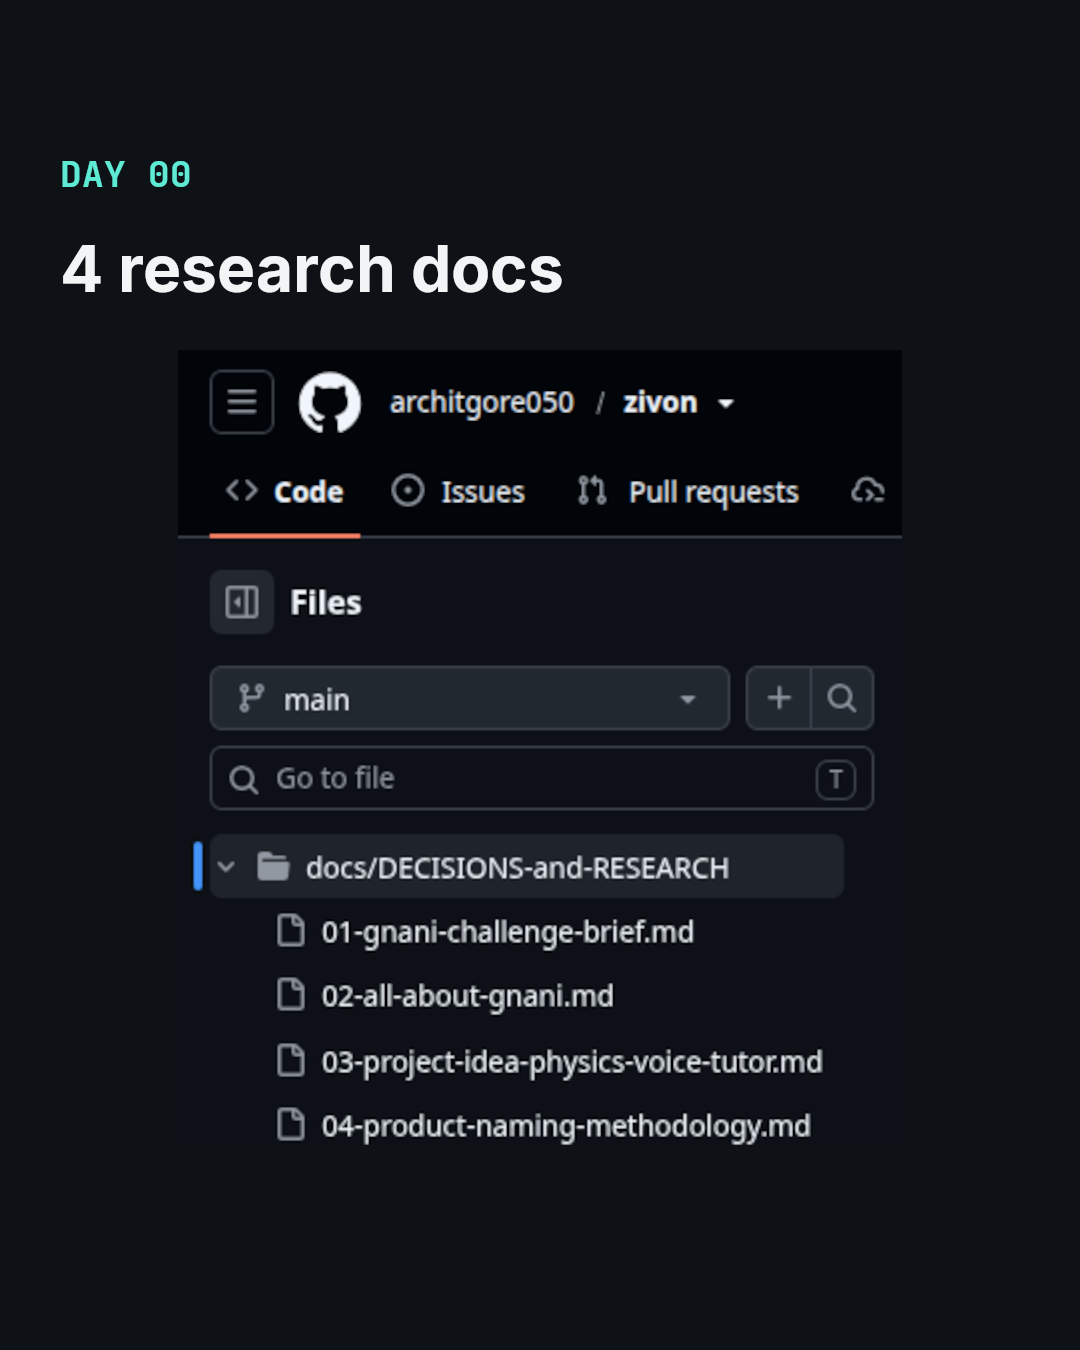
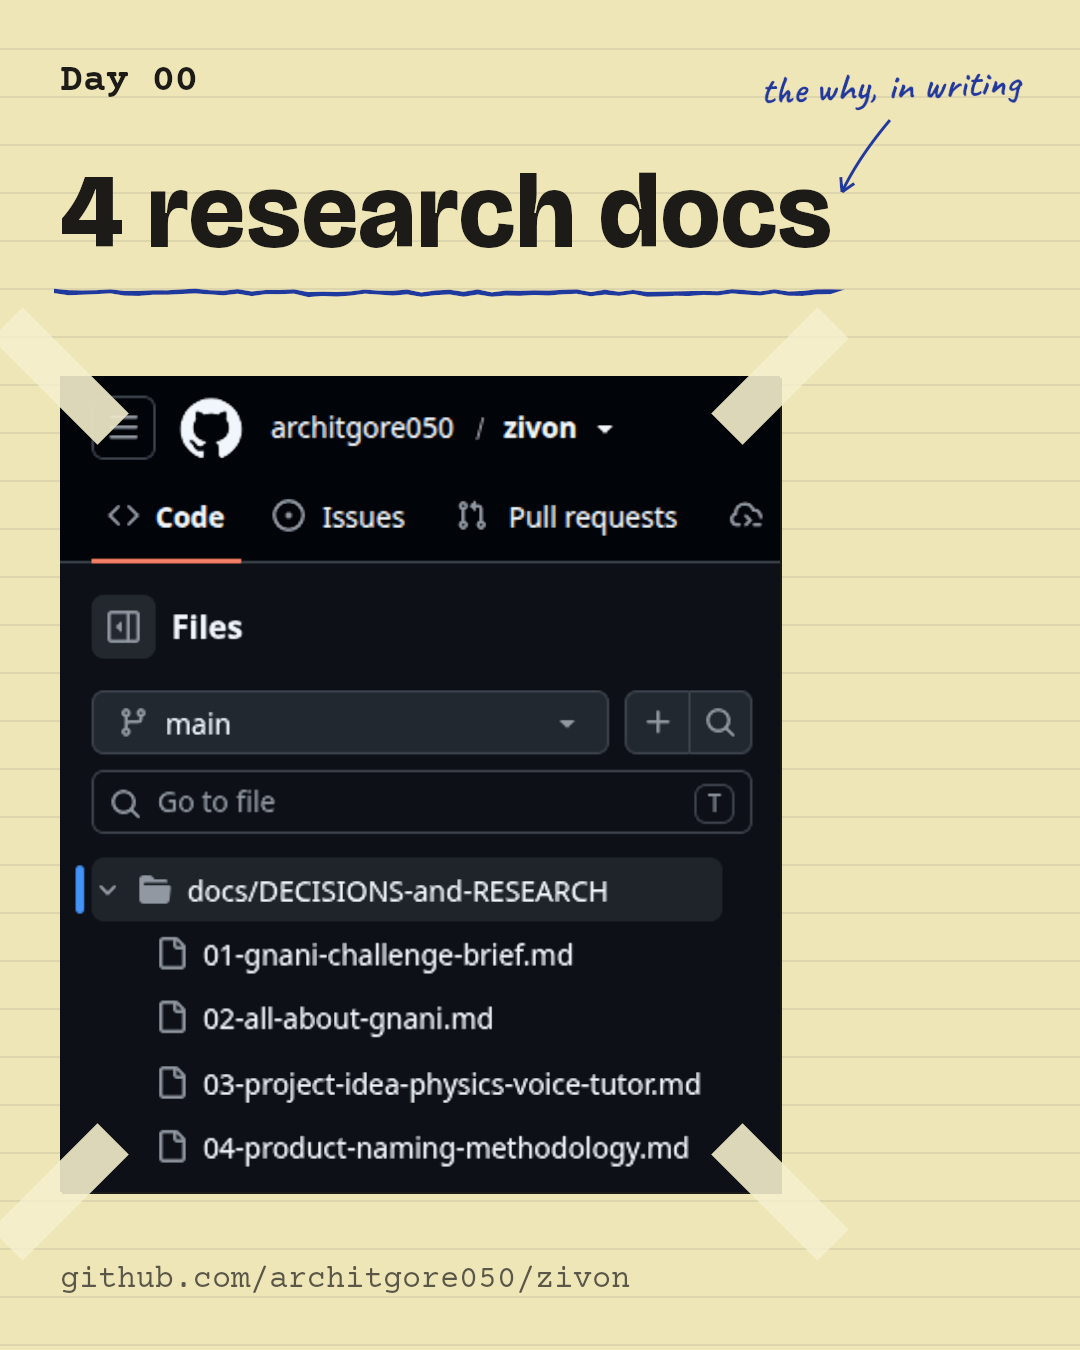
final version of day 0 post ready

diff --git a/posts/2026-10-29-day-0.md b/posts/2026-10-29-day-0.md
@@ -8,9 +8,9 @@ drafted as if published on Day 0.
 
 - 4 decision/research docs written: challenge brief, Gnani research, product idea, naming methodology
   (`docs/DECISIONS-and-RESEARCH/01`–`04`).
-- Pivot decided on Day 0: Python coding tutor → voice-first Physics tutor (Class 9–12). Reason: interactive
-  simulations/animations fit the vision; bigger mass impact ("high-quality education to poor homes"); a code
-  interpreter for cybersecurity-style exercises was not buildable in 12 days.
+- Pivot decided on Day 0: Python coding tutor → voice-first Physics tutor (Class 9–12). Main reason: school
+  Physics is required by far more kids. Much bigger impact. Second: interactive simulations/animations work
+  best for Physics. Tradeoff accepted: reach over niche.
 - Kanban live and public on Trello: 31 cards across 5 phase swim lanes.
   Board: https://trello.com/b/6ae259654bfcaa47ee720df7/zivon (clean URL, no invite token; verify logged out).
 - Naming: 8 candidates shortlisted (Zivon, Nexora, Zylo, Kairo, Nyra, Vireo, Elyra, Quen); Zivon leads; final
@@ -55,8 +55,8 @@ competition, organisers follow it).
 ### Alternative: Day-0 thread (6 tweets + 1 reply; hook tweet carries the kanban screenshot)
 
 1. Day 0 of 12 building Zivon for Gnani AI's Great Indian AI Internship Challenge: a voice-first Physics tutor on Gnani's Prisma + Evon + Timbre. Today's output: 4 research docs, 31 kanban cards, 1 idea killed, 1 idea born, 0 lines of product code.
-2. The idea started as a Python coding tutor. Day 0 research turned it into a Physics tutor for Class 9-12. What I gave up: a code interpreter for cyber-safety exercises was never fitting in 12 days.
-3. Why Physics won: simulations and animations teach concepts text walls can't, and good Physics tutors are scarce and expensive. The goal is free, clear Physics teaching for homes that can't buy it.
+2. The idea started as a Python coding tutor. Day 0 research turned it into a Physics tutor for Class 9-12. The tradeoff: reach over niche. A school subject serves far more kids.
+3. Why Physics won: it's a school subject required by far more kids. That's where the impact is. And it's where simulations + visual animations make learning intuitive. The goal: free Physics teaching that sparks curiosity, for homes that can't buy it.
 4. 8 candidate names: Zivon, Nexora, Zylo, Kairo, Nyra, Vireo, Elyra, Quen. Zivon leads. The final call waits on domain price, not my taste. Domain + hosting are deliberately delayed to Day 3, when there's something to deploy.
 5. Not done, honestly: kid testers. Planned 2-3, found 1: a 7th grader who said yes during exam week. Surprised even one did. Topics aren't fixed because of it.
 6. Tomorrow (Day 1): Gnani Evon v3.3 faces 10 Physics explanations + 5 Hinglish prompts. Score it, write the verdict down, swap the brain if it fails. I'll post the score.
@@ -79,7 +79,7 @@ Deadline: 10 November 2026, 11:59 PM IST.
 
 What shipped today: 4 decision docs, a public kanban with 31 cards across 5 phases, and a pivot.
 
-The pivot: the idea started as a Python coding tutor. During research it became a voice-first Physics tutor for Class 9-12: spoken Hinglish doubts answered on interactive pages. What I gave up: a code interpreter for cybersecurity-style exercises was never going to fit in 12 days. What I gained: simulations that genuinely teach Physics, aimed at homes that can't afford good tutors.
+The pivot: the idea started as a Python coding tutor. During research it became a voice-first Physics tutor for Class 9-12: spoken Hinglish doubts answered on interactive pages. Why I pivoted: school Physics is required by far more kids, and that is where the impact is. And Physics is where interactive simulations + visual animations make learning most intuitive. The tradeoff: reach over niche. The aim is unchanged: spark curiosity, make learning intuitive.
 
 The honest part: I planned 2-3 kid testers. I found one. A 7th grader, during exam week. I'm surprised even one said yes.
 
@@ -133,8 +133,14 @@ Fallback:    screenshot of TIMELINE.md's Day 0 section with the not-done items v
 
 ASSET A2 [GIMP card] — the decision card (optional second image / thread tweet 2)
 Proves:      the pivot decision and its tradeoff
-Card type:   Decision card (Decision / Tradeoff / Why), theme.md palette: bg #0E1116, text #F3F4F6, accent #5EEAD4 on "Physics tutor", DAY 00 top-left in JetBrains Mono
-Text:        Decision: Python tutor → Physics tutor / Tradeoff: no code interpreter, and 12 days of Python work abandoned / Why: simulations teach Physics better, and reach more kids who need it
+Card type:   Decision card per design-doctrine.md (Field Notes): paper-light card with 1px ink border, rotated 1.2 deg on a paper
+  background; "Day 00" top-left in Courier Prime; Decision / Tradeoff / Why as a two-column notebook entry (graphite mono tags,
+  Bricolage Grotesque body); headline correction in pen-blue: hand-drawn strike through "Python" with handwritten Caveat
+  "physics" squeezed in above it; handwritten pen-blue tagline with a small outlined heart, set between the Tradeoff and Why
+  entries: `dil khol ke padhega india`
+Text:        Decision: ~~Python~~ physics tutor / Tradeoff: A school subject reaches far more kids. We chose reach over niche. /
+             Why: Learning starts from curiosity, not from memorizing text walls. Simulations + visual animations make Physics
+             intuitive to kids.
 Frame:       1080x1350 (4:5)
 Filename:    day00_A2_decision-card.png
 
@@ -145,14 +151,26 @@ Frame:       1:1 crop on the docs folder, dark GitHub theme
 Filename:    day00_A3_repo-tree.png
 
 GIMP MCP steps for A2 (read tools.md first; GIMP 3.2 with MCP plugin running, check_server first):
-**DONE 31 Oct** — all three assets edited via GIMP MCP. Outputs in `posts/assets/day-0/`:
-- `day00_A1_kanban-board_1080x1350.png` — Trello crop (5 phase lists = 31 cards), DAY 00 chip + challenge
-  label top, "31 cards across 5 phases" caption bottom. Primary image: X hook post + LinkedIn.
-- `day00_A2_decision-card_1080x1350.png` — Decision/Tradeoff/Why card, accent on "Physics tutor".
-  Supporting: X thread tweet 2 or LinkedIn second slot.
-- `day00_A3_repo-tree_1080x1350.png` — GitHub tree at 2x, "4 research docs" headline. Supporting: LinkedIn.
-Re-editable XCFs kept out of the repo at `/tmp/opencode/day00_A{1,2,3}*.xcf`. GIMP lessons appended to
-tools.md.
+**REBUILT 31 Oct for the Field Notes doctrine** — all three assets rebuilt from the raw captures via GIMP MCP in the design-doctrine
+look (paper `#EFE6B8` + ink, Bricolage Grotesque / Courier Prime, one pen-blue annotation each, pencil-red reserved for the gap
+stamp, taped screenshot corners with a 2 px hard-offset shadow, `Day 00` counter top-left). Outputs in `posts/assets/day-0/`:
+- `day00_A1_kanban-board_1080x1350.png` — Trello board crop (5 phase lists = 31 cards) taped onto paper; "31 cards" hook with a
+  pen-blue underline + Caveat note "counted them" in the right margin (arrow from mid-note to mid-height right of "cards");
+  "across 5 phases" as a typed note; source line `trello.com/...` in graphite mono.
+  Member avatars/icons in the board header redacted with a solid fill before compositing. Primary image: X hook post + LinkedIn.
+- `day00_A2_decision-card_1080x1350.png` — Decision card: paper-light card, 1px ink border, rotated 1.2 deg; headline
+  correction: "Python tutor" in Bricolage Display with a pen-blue hand-drawn strike through "Python" and handwritten Caveat
+  "physics" above it; Tradeoff "A school subject reaches far more kids. We chose reach over niche."; Why "Learning starts from
+  curiosity, not from memorizing text walls. Simulations + visual animations make Physics intuitive to kids."; handwritten
+  pen-blue tagline `dil khol ke padhega india` with a small outlined heart, between Tradeoff and Why. Supporting: X thread
+  tweet 2 or LinkedIn second slot.
+- `day00_A3_repo-tree_1080x1350.png` — GitHub docs tree (upscaled 2x) taped onto paper; "4 research docs" hook with pen-blue
+  underline + Caveat note "the why, in writing" in the top-right corner (arrow from mid-note down to "docs"); source line
+  `github.com/architgore050/zivon`. Supporting: LinkedIn.
+Note: pen-blue annotations sit on the paper (under the headline), not on the dark screenshots — pen-blue on dark UI fails the
+doctrine's contrast table; the underline+note pair is the example HTML's own annotation pattern. Doctrine fonts installed to
+`~/.local/share/fonts/fieldnotes/` (Bricolage Grotesque text + Display cuts, Courier Prime, Caveat 700). Re-editable XCFs kept out
+of the repo at `/tmp/opencode/day00_A{1,2,3}_fieldnotes_v2.xcf`. GIMP lessons appended to tools.md.
 
 ---
 

diff --git a/skills/content-creation/tools.md b/skills/content-creation/tools.md
@@ -38,8 +38,7 @@ store: it records what we have learned about using these tools so every later ed
 ## Lessons learned — GIMP
 - 2026-10-31 (Day 0 post kit): `new_canvas(name=...)` does not stick — GIMP reports the image as
   `[Untitled]` via `get_name()`. Identify images in `call_api` by dimensions + `get_file()` (None for
-  unsaved), not by name.
-- 2026-10-31: in 3.2 PyGObject there is no `Gimp.Image.select_all` / `image.select_all` / `Image.set_name` /
+  unsaved), not by name.- 2026-10-31: in 3.2 PyGObject there is no `Gimp.Image.select_all` / `image.select_all` / `Image.set_name` /
   `Layer.crop`. Use `image.select_rectangle(Gimp.ChannelOps.REPLACE, 0, 0, w, h)`; skip image renames; to trim
   a layer, paint the unwanted strip with the background color via `fill_rectangle(layer_name=...)`.
 - 2026-10-31: cross-image composite recipe that worked: select_rectangle on source → `Gimp.edit_copy([layer])` →
@@ -54,3 +53,63 @@ store: it records what we have learned about using these tools so every later ed
 - 2026-10-31: verify crop boundaries with `get_state_snapshot(region=...)` before cropping; QC with a
   `max_size=300` snapshot for phone readability; `save_xcf` to /tmp/opencode keeps re-editable layers out of
   the repo.
+- 2026-10-31 (Field Notes rebuild): fonts installed mid-session are invisible to GIMP's cached font list until
+  `Gimp.fonts_refresh()` (call_api) is run; then `Gimp.fonts_get_list('Caveat')` returns `Gimp.Font` objects and
+  `TextLayer.set_font(font_obj)` works (it needs a `Gimp.Font`, not a string). MCP `add_text` validates against
+  the cached list and silently substitutes unknown fonts (a `Sans-serif` fallback shows up in `edit_text`'s
+  returned `font`). Always verify the rendered face with a snapshot.
+- 2026-10-31: doctrine fonts live in `~/.local/share/fonts/fieldnotes/`: Bricolage Grotesque Medium/Bold/ExtraBold
+  (opsz 36 cut) + "Bricolage Grotesque Display" Bold/ExtraBold (opsz 72 cut, for 96-120 px headlines), Courier
+  Prime Regular/Bold, Caveat Bold — static instances made from google/fonts variable TTFs with
+  `fontTools.varLib.instancer` plus a name-table rewrite (family/style per cut). Keep exactly one family+style
+  set active; duplicate installs make fontconfig matching nondeterministic.
+- 2026-10-31: `image.select_polygon(ops, pts)` takes a flat float list `[x1,y1,x2,y2,...]`, not Vector2 objects.
+  Hand-drawn marks (uneven underline ribbons, curved arrows with barbs, 45-degree tape strips) all work as
+  polygon selections + `edit_fill` on a dedicated layer.
+- 2026-10-31: `Image.crop()` returned True but left dimensions unchanged in this build — crop via
+  select_rectangle → `Gimp.edit_copy` → new canvas → `edit_paste` → `floating_sel_to_layer` → `set_offsets`.
+  `Image.scale(w, h)` works in place; set `Gimp.context_set_interpolation(Gimp.InterpolationType.NOHALO)` first.
+- 2026-10-31: rotate a layer around an image-space pivot with `lay.transform_matrix(c,-s, cx*(1-c)+cy*s, s,c,
+  -cx*s+cy*(1-c), 0,0,1)` (radians). `layer.get_offsets()` returns a named tuple — use `.offset_x/.offset_y`.
+  `transform_rotate_simple` takes `(RotationType, auto_center, center_x, center_y)`, not an angle.
+- 2026-10-31: `im.delete()` silently no-ops on images held by the plugin; the MCP `close_image` tool closes them
+  reliably. `sample_color` gives the exact fill color for solid redaction (Trello header `#00204e`).
+- 2026-10-31: pen-blue annotations must sit on paper, not on dark screenshots (contrast fails the doctrine
+  table); the underline + Caveat-note pair from `design-doctrine-example.html` is the reusable pattern. One
+  rotated element per image (card 1.2 deg or note -2 deg, not both).
+- 2026-10-31: `layer.delete()` also silently no-ops when the persistent plugin console holds a reference to the
+  layer (same failure mode as `im.delete()`). To retire a layer, `set_visible(False)` instead — hidden layers are
+  excluded from flattened exports and only clutter the /tmp XCF. When replacing a text layer, MCP `add_text`
+  names the new one `"text #1"` because the old one still exists; grab the new layer by the exact name
+  `add_text` returns, never by the bare name.
+- 2026-10-31 (founder-approved Field Notes corrections): annotation arrows point at the **word**, not at the
+  underline. Natural layout: Caveat note in the margin beside/above the headline (if it crowds the title, move
+  it to the page corner, aligned with the Day-counter line); the arrow **starts at the middle of the note text**
+  (or ~1/3 from the near end), not at the note's edge. Tip lands at mid-right of the word (near-horizontal
+  arrows) or top-right of the word (descending arrows) — never bottom-right. Curve stays clear of the underline.
+  Long swoops that start under a note and cross near the underline read as weird squiggles; don't do them.
+  Caveat notes render at 40 px. Ruled lines: 2 px at 18% opacity — 1 px at 15% is invisible at 1080 px width.
+- 2026-10-31: a handwritten note must add value to the viewer (explain, invite, or reframe) — "the receipts" got
+  cut for adding nothing; "the why, in writing" replaced it on the repo-tree asset. If there is nothing useful
+  to say, drop the note entirely rather than decorating.
+- 2026-10-31 (founder copy review, applies to all card/note assets): card text is product reasoning, not
+  decoration — settle the logic before designing anything. On the decision card: Tradeoff = why the bigger
+  audience was chosen ("reach over niche"), Why = the reasoning stated explicitly, never as a slogan. The
+  stamp slot became a handwritten closing tagline in pen-blue Caveat ("dil khol ke padhega india") — plain
+  statement, no "not yet:" prefix; Hindi/Hinglish taglines fit the brand voice. Zivon never positions itself
+  as exam-focused, even where exam relevance explains demand.
+- 2026-10-31: arrowhead barbs must open **backwards** from the tip: reverse vector = -(tip - control_point),
+  rotate ±30°, length ~15 px. A sign slip on the reverse vector puts the barbs past the tip and the arrow reads
+  as a pitchfork. Verify arrowheads with a zoomed `get_state_snapshot(region=...)`, not just the full frame.
+- 2026-10-31: layer stacking fixes — GIMP 3.2 pyGObject has no `Layer.set_below`/`set_above`, no
+  `Image.reorder_layer`, and no `gimp_item_set_below` PDB proc. Use the MCP `reorder_layer` tool
+  (`new_position` 0 = topmost). Ruled-paper lines belong **below** taped/tilted card layers so the card reads as
+  clean paper on a ruled page.
+- 2026-10-31: a text-glyph arrow ("→") inside a headline dies when the headline wraps — it ends pointing into
+  empty margin. For a pivot headline the strongest Field Notes treatment is a **text correction**: keep the
+  original line in the title font, hand-draw a pen-blue strike through the old word (extend slightly past its
+  ends), and squeeze the handwritten replacement (Caveat, lowercase) centered above it. Skip the insertion
+  caret: it floats awkwardly between the line and whatever sits below. Rebuilding a flattened composite
+  (card): hide the old flattened layer (stays as XCF backup), build new bg/shadow/text/marks layers unrotated,
+  then rotate every new layer by the same angle around the same pivot with `transform_matrix`; nudge rotated
+  content afterwards with `set_offsets`.

diff --git a/docs/frontend/design-doctrine.md b/docs/frontend/design-doctrine.md
@@ -1,6 +1,9 @@
 # Design system: Field Notes
 
 Anchor: Lo-fi paper (Ilm-Alan "Lo-Fi": paper-yellow, not cream) with Organic honesty. Status: v0.1, proposal.
+Reference implementation: `design-doctrine-example.html` (same folder) — a working page that applies every token
+and rule below. Open it before generating any new page or post visual; match its patterns rather than re-deriving
+the look.
 
 ## 1. Intent
 - Style: handwritten-lab-notebook, deliberately unproduced. Tone: candid, a little wry. Differentiator: it looks
@@ -20,6 +23,7 @@ Anchor: Lo-fi paper (Ilm-Alan "Lo-Fi": paper-yellow, not cream) with Organic hon
 | Token | Hex | Contrast on paper | Job | Frequency cap |
 |---|---|---|---|---|
 | paper | `#EFE6B8` | n/a | background (about 70%) | all pages |
+| paper-light | `#F6F0CF` | n/a | card / taped surface background (ink on it: 15.0:1) | cards only |
 | ink | `#1C1B18` | 13.7:1 | text, outlines | always |
 | graphite | `#5A5748` | 5.8:1 | labels, sources | small text only |
 | pen-blue | `#1F3A9E` | 7.7:1 | annotation: ONE underline/circle per post | once per post/image |
@@ -40,27 +44,9 @@ Anchor: Lo-fi paper (Ilm-Alan "Lo-Fi": paper-yellow, not cream) with Organic hon
 - Notes and data: **Courier Prime** (400, 700), used as typed-note text for numbers, timestamps, and stamps.
   Fallback: Courier New, monospace.
 - Why: Bricolage is a characterful grotesque (distinct from Inter); Courier Prime reads like typed lab notes.
-  Handwriting is excluded from all content because it cuts reading speed; it is allowed only for annotations (boundary below). [MODERATE]
+  Handwriting fonts are excluded because they cut reading speed. [MODERATE]
 - Scale on 1080 px: hook 120/1.05 800; headline 76/1.1 700; body 46/1.35 500; notes 36/1.3 mono; minimum 32.
 - Slight rotation (max 1.5 degrees) allowed on one card element per image, never on text paragraphs.
-
-### Handwriting boundary (exact)
-Font: **Caveat** 700, 28-34 px on a 1080 px canvas (never below 26 px), color pen-blue `#1F3A9E` (7.7:1 on paper).
-- **Handwritten = annotation only.** An annotation is a note of 6 words or fewer, attached to a drawn mark (arrow,
-  underline, or circle) that points AT typed content. It comments on the content; it is never the content.
-- **Allowed uses:** a pointer note on the one number or phrase to remember ("the one to remember"); a note on a
-  gap or decision that explains intent ("left on purpose"); a note beside a proof screenshot.
-- **Never handwritten:** headlines, body text, list rows, status tags and stamps (`done`, `not yet` stay in Courier
-  Prime), numbers, the day counter, buttons, captions, the ask/question, and anything inside a sentence.
-- **Limits:** at most 2 annotations per image or page; the same drawn arrow style each time; slight rotation
-  (-3 to -1 degrees); no mixing handwriting and typed text within one line.
-- The one pen-blue annotation rule from section 4 now counts per annotation pair: underline plus its note is ONE
-  annotation, so a post can carry two such pairs at most.
-- **Annotations are overlays.** They are absolutely positioned on top of the design and occupy no space: they never
-  push, resize, or re-space any typed element. Delete every annotation and the layout must be pixel-identical.
-  The layout reserves at least 56 px of empty space directly below any element that may be annotated; the note sits in that reserved space, anchored to the element it points at. If no space is reserved, drop the note.
-- Annotations are decorative to screen readers (`aria-hidden`); anything important must also appear in typed text.
-- Example: field-notes-handwritten-example.html.
 
 ## 6. Layout and components
 - 60 px margins, left aligned, generous empty space. Day counter written as `Day 01` in Courier Prime, top-left.

diff --git a/skills/content-creation/README.md b/skills/content-creation/README.md
@@ -6,6 +6,9 @@ root `README.md` and `AGENTS.md` point here and stay abstract.
 
 ## Layout
 
+- **All post work goes in `posts/` at the repo root** — drafts, captions, assets, and edited outputs (e.g.
+  `posts/2026-10-29-day-0.md`, `posts/assets/day-0/`). This skills folder holds only the skills and rules,
+  never the posts themselves.
 - `linkedin-post-interviewer/`, `x-post-interviewer/` — post writers: one folder per skill; `SKILL.md` is the
   entry point, each with its own hooks-and-formats reference.
 - `photo-edit-director/`, `video-edit-director/` — craft-first edit directors for stills, carousels, and short
